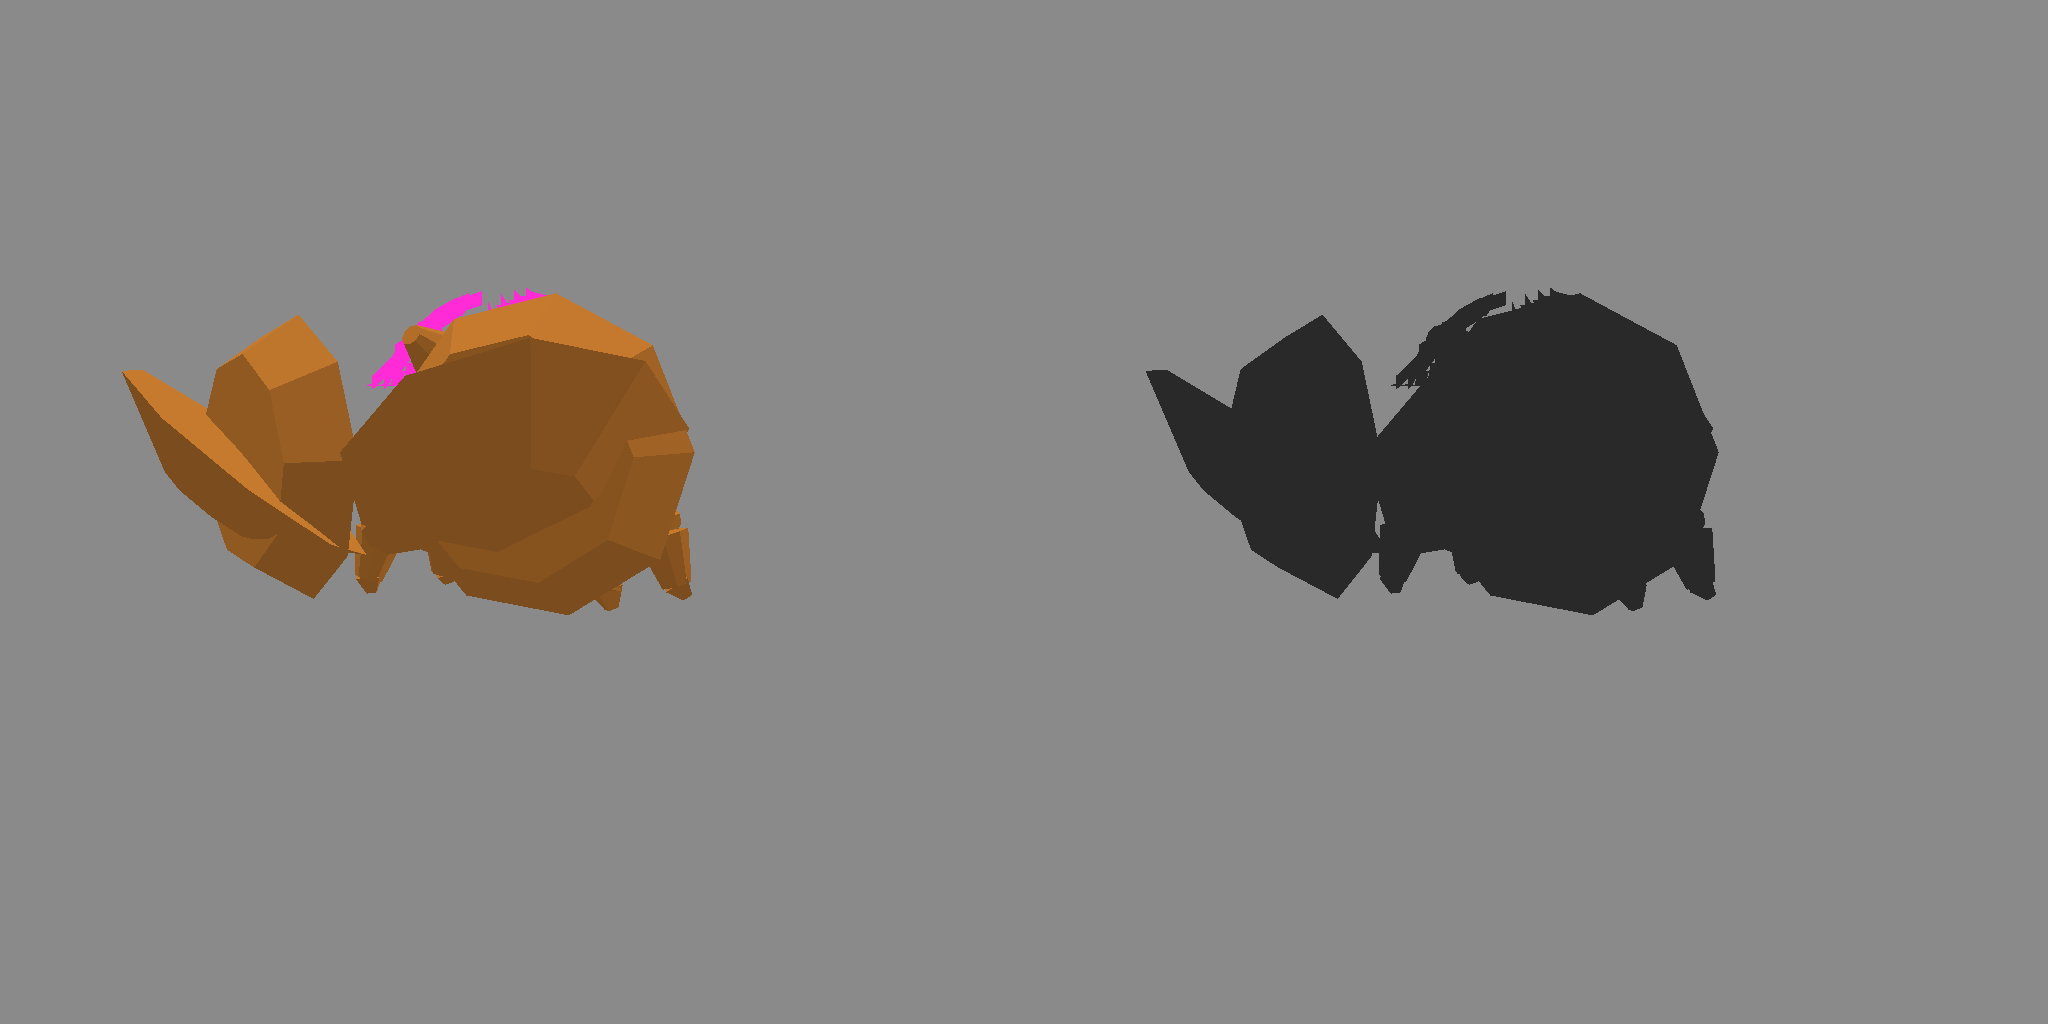
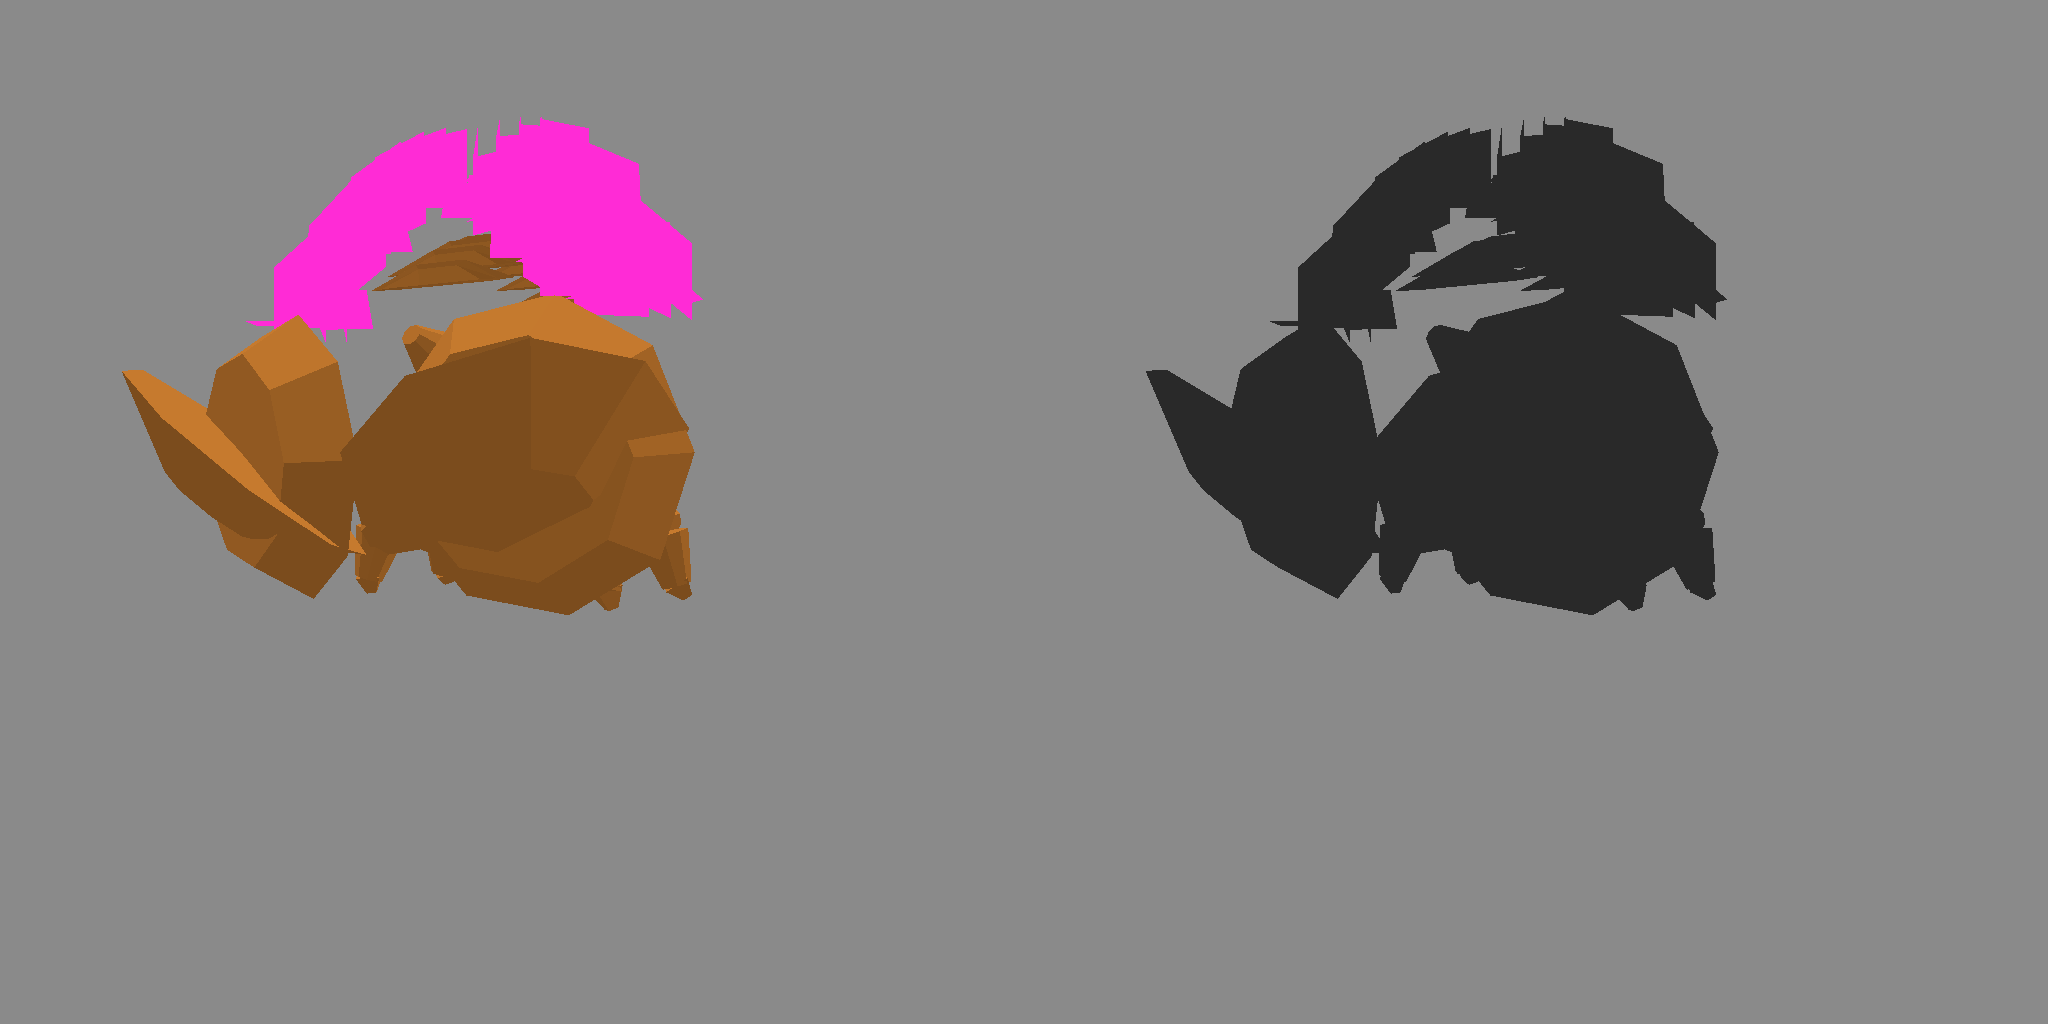
Open the brute shell, enlarge the brood pods, and thin tyrant spikes.
Vulnerable brutes spread their plates and light a much wider crack. The brood mother carries six large glowing pods, and the tyrant's leg spikes are thin enough that the head and sac stay readable.

Changed region(s): [[0.625, 0.0938, 0.8438, 0.375], [0.125, 0.0938, 0.3438, 0.375]]

diff --git a/crates/meshes/src/visual.rs b/crates/meshes/src/visual.rs
@@ -437,6 +437,34 @@ fn add_body_part(parts: &mut Vec<Part>, id: &str, spec: &VPart, dens: &Dens, cat
             grown_scale: 0.0,
             grown_glow: 0.0,
         });
+        if spec.part == "shell" {
+            let rear = req(id, &spec.name, "rear_open", spec.rear_open)?;
+            if dens.plates > 0 {
+                parts.push(Part {
+                    name: "shell_plates".into(),
+                    parent: Some(idx),
+                    rest_pos: [0.0, 0.0, 0.0],
+                    rest_euler: [0.0, 0.0, 0.0],
+                    mesh: Arc::new(dorsal_plates(&size, dens, rear)),
+                    palette: palette.clone(),
+                    emissive: false,
+                    joint: Joint::Static,
+                    mesh_key: format!("{id}:shell_plates"),
+                    gate: Gate::Always,
+                    foot: None,
+                    grows: false,
+                    grow_slot: None,
+                    pod_slot: None,
+                    sway_rate: 0.0,
+                    sway_spread: 0.0,
+                    sway_amp: 0.0,
+                    swing_hz: 0.0,
+                    swing_amp: 0.0,
+                    grown_scale: 0.0,
+                    grown_glow: 0.0,
+                });
+            }
+        }
         if let Some(limb) = limb.as_ref() {
             let len = size[1];
             let rad = size[0] * limb.rad;
@@ -964,7 +992,8 @@ fn add_veins(parts: &mut Vec<Part>, id: &str, spec: &VPart) -> Result<(), String
     if legs.is_empty() {
         return Err(format!("{id} {} has no legs to attach to", spec.name));
     }
-    let mesh = Arc::new(segment_mesh(1.05, 0.11, 0.04, 4));
+    // Thin enough that the head and chest sac stay readable past the legs.
+    let mesh = Arc::new(segment_mesh(0.55, 0.04, 0.012, 4));
     for (n, idx) in legs.iter().enumerate() {
         let parent_r = parts[*idx]
             .mesh
@@ -1016,8 +1045,7 @@ fn sac_anchor_from(id: &str, parts: &[Part]) -> Result<([f32; 3], [f32; 3]), Str
     Ok((sac.rest_pos, [max[0] * 0.92, max[1] * 0.92, max[2] * 0.92]))
 }
 
-/// Round shell plus dorsal plates. Each plate is shorter than its slot and lifted
-/// off the surface, so neighboring plates never share a face.
+/// Round shell. Dorsal plates are a sibling mesh so the open pose can spread them.
 fn dome_shell(size: &[f32; 3], dens: &Dens, rear_open: bool) -> MeshData {
     let mut mesh = MeshData::new();
     let radii = shell_radii(size, rear_open);
@@ -1027,9 +1055,16 @@ fn dome_shell(size: &[f32; 3], dens: &Dens, rear_open: bool) -> MeshData {
     } else {
         geom::gem(&mut mesh, [0.0, 0.0, 0.0], radii, dens.slices, dens.stacks, WHITE);
     }
+    mesh
+}
+
+/// Plates sit shorter than their slot and lifted off the shell, so neighbors never share a face.
+fn dorsal_plates(size: &[f32; 3], dens: &Dens, rear_open: bool) -> MeshData {
+    let mut mesh = MeshData::new();
     if dens.plates == 0 {
         return mesh;
     }
+    let radii = shell_radii(size, rear_open);
     let gap = plate_gap(radii[1]);
     let arch = plate_arch(radii[1]);
     for (n, (z, y, spacing)) in dorsal_bands(&radii, dens.plates, rear_open).into_iter().enumerate() {
@@ -1361,14 +1396,14 @@ fn jagged_crack(mesh: &mut MeshData, radii: &[f32; 3], side: f32, seam_z: f32, n
     for i in 0..=steps {
         let t = i as f32 / steps as f32;
         let zig = if i % 2 == 0 { -1.0 } else { 1.0 };
-        let z = seam_z + zig * radii[2] * 0.04;
+        let z = seam_z + zig * radii[2] * 0.08;
         let x = side * radii[0] * (0.2 + t * 0.7);
         let y = shell_surface_y(radii, x, z);
         let out = normalize([x, y.max(0.02), z]);
-        let lift = plate_gap(radii[1]) + plate_arch(radii[1]) + 0.05;
+        let lift = plate_gap(radii[1]) + plate_arch(radii[1]) + 0.14;
         pts.push([x + out[0] * lift, y + out[1] * lift + 0.03, z + out[2] * lift]);
     }
-    let half = (radii[0] * 0.05).max(0.035);
+    let half = (radii[0] * 0.16).max(0.09);
     for w in pts.windows(2) {
         ribbon(mesh, w[0], w[1], half);
     }

diff --git a/crates/meshes/src/lib.rs b/crates/meshes/src/lib.rs
@@ -482,6 +482,83 @@ mod tests {
     }
 
     #[test]
+    fn open_brute_pods_and_tyrant_spikes() {
+        let brute = bug("brute");
+        let plates = brute.parts.iter().position(|p| p.name == "shell_plates").unwrap();
+        let cracks = brute.parts.iter().position(|p| p.name == "cracks").unwrap();
+        let shut = pose(
+            brute,
+            AnimInput {
+                time: 0.2,
+                moving: false,
+                charging: false,
+                vulnerable: false,
+                phase: 0,
+                frenzy: false,
+                preview_glow: false,
+                regrow: 0,
+            },
+            &[],
+        );
+        let open = pose(
+            brute,
+            AnimInput {
+                time: 0.2,
+                moving: false,
+                charging: false,
+                vulnerable: true,
+                phase: 0,
+                frenzy: false,
+                preview_glow: false,
+                regrow: 0,
+            },
+            &[],
+        );
+        assert!((shut.xforms[plates].scale[0] - 1.0).abs() < 1e-4);
+        assert!(!shut.xforms[cracks].visible);
+        assert!(open.xforms[plates].scale[0] > 1.4);
+        assert!(open.xforms[cracks].scale[0] > 1.4);
+        assert!(open.xforms[cracks].visible);
+        assert!(open.xforms[cracks].glow > 3.0);
+
+        let brood = bug("brood_mother");
+        assert_eq!(brood.parts.iter().filter(|p| p.name.starts_with("pod")).count(), 6);
+        let pod = brood.parts.iter().find(|p| p.name == "pod0").unwrap();
+        let rad = pod
+            .mesh
+            .positions
+            .iter()
+            .map(|p| p[0].abs().max(p[1].abs()).max(p[2].abs()))
+            .fold(0.0_f32, f32::max);
+        assert!(rad > 0.6, "pod radius {rad}");
+        let posed = pose(
+            brood,
+            AnimInput {
+                time: 0.2,
+                moving: false,
+                charging: false,
+                vulnerable: false,
+                phase: 0,
+                frenzy: false,
+                preview_glow: false,
+                regrow: 0,
+            },
+            &[],
+        );
+        let p0 = brood.parts.iter().position(|p| p.name == "pod0").unwrap();
+        assert!(posed.xforms[p0].glow > 2.0);
+
+        let vein = bug("hive_tyrant").parts.iter().find(|p| p.name == "vein0").unwrap();
+        let thick = vein
+            .mesh
+            .positions
+            .iter()
+            .map(|p| (p[0] * p[0] + p[2] * p[2]).sqrt())
+            .fold(0.0_f32, f32::max);
+        assert!(thick < 0.06, "leg spike thickness {thick}");
+    }
+
+    #[test]
     fn catalog_is_shared() {
         let a = bug("swarmer") as *const EnemyVisual;
         let b = bug("swarmer") as *const EnemyVisual;

diff --git a/crates/meshes/src/pose.rs b/crates/meshes/src/pose.rs
@@ -95,6 +95,8 @@ pub fn pose(visual: &EnemyVisual, anim: AnimInput, prev_lift: &[f32]) -> Pose {
                 if part.emissive {
                     glow = if anim.charging && visual.sac_charge_glow > 0.0 {
                         visual.sac_charge_glow
+                    } else if part.name.starts_with("pod") {
+                        3.0
                     } else if visual.glow_pulse > 0.0 {
                         1.0 + 0.15 * (anim.time * visual.glow_pulse).sin()
                     } else {
@@ -112,7 +114,14 @@ pub fn pose(visual: &EnemyVisual, anim: AnimInput, prev_lift: &[f32]) -> Pose {
                 euler[0] += (anim.time * part.sway_rate + index as f32 * part.sway_spread).sin() * part.sway_amp;
             }
             Joint::Static => {
-                if part.emissive && visual.glow_pulse > 0.0 {
+                // Open shell: plates and the fissures spread off the carapace. The
+                // crack glow crosses the hot-material threshold in the client.
+                if anim.vulnerable && (part.name == "shell_plates" || part.name == "cracks") {
+                    scale = [1.55, 1.55, 1.55];
+                }
+                if part.name == "cracks" && anim.vulnerable {
+                    glow = 4.0;
+                } else if part.emissive && visual.glow_pulse > 0.0 {
                     glow = 1.0 + 0.12 * (anim.time * visual.glow_pulse).sin();
                 }
             }
